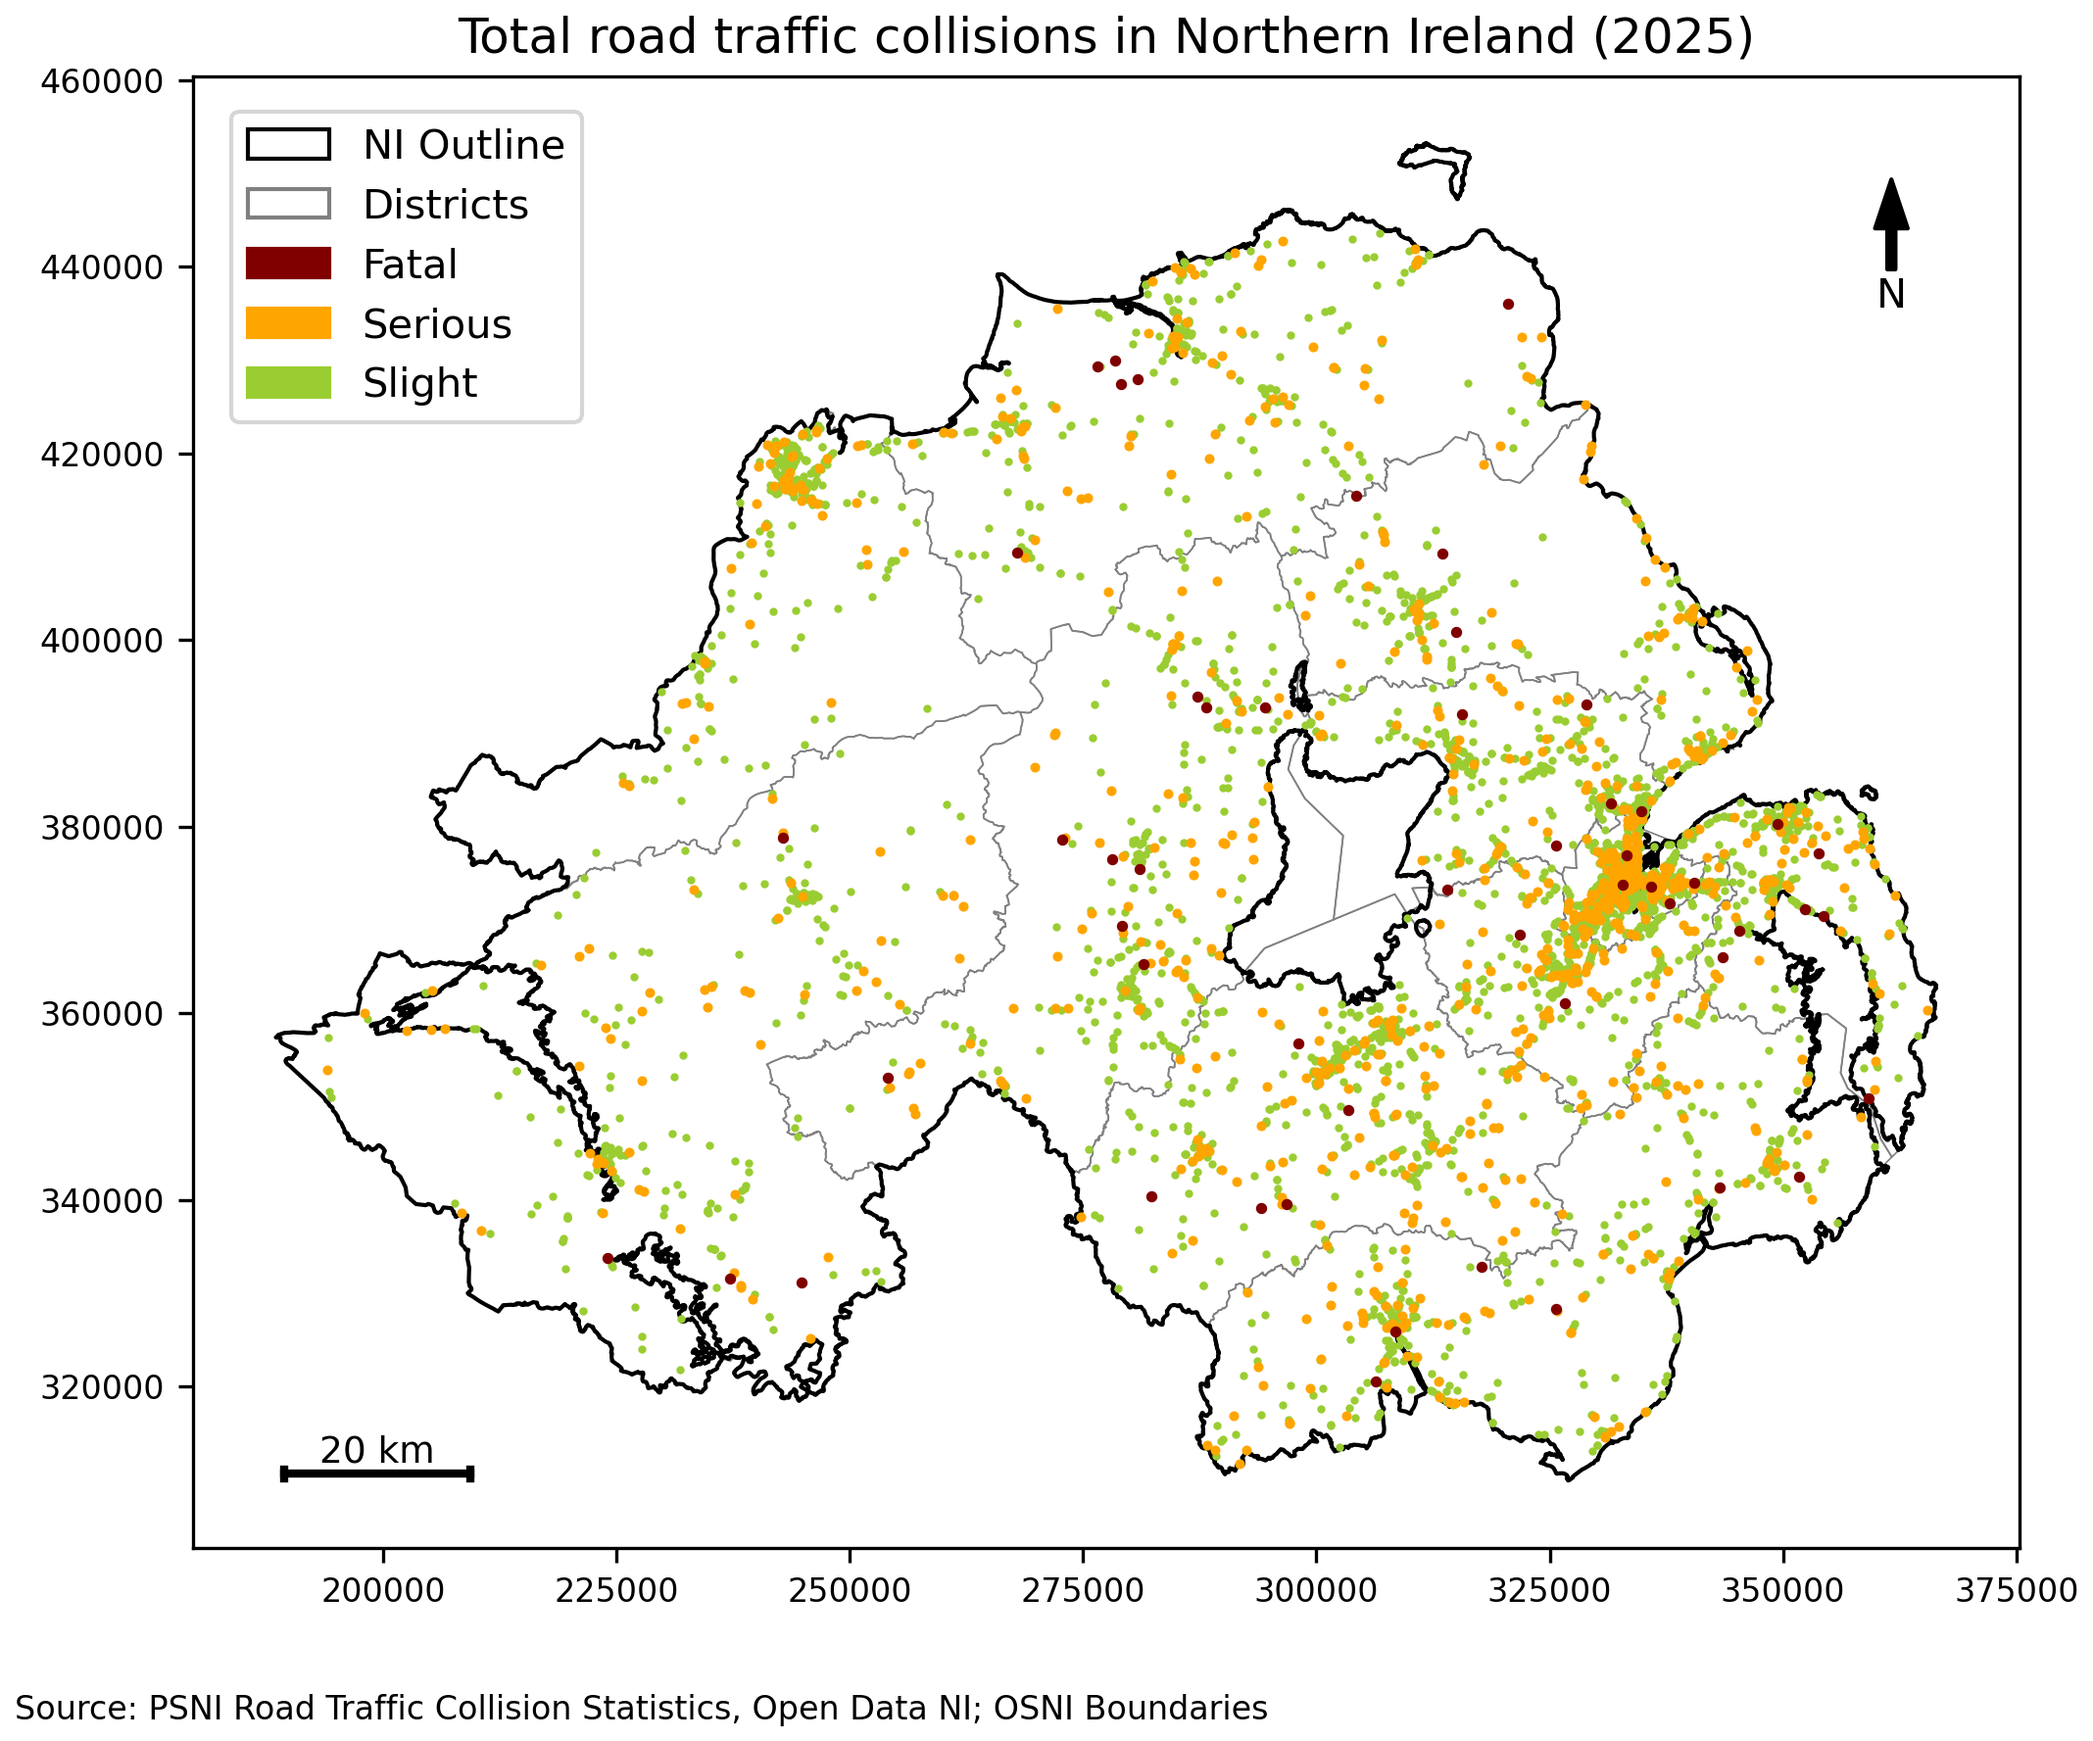
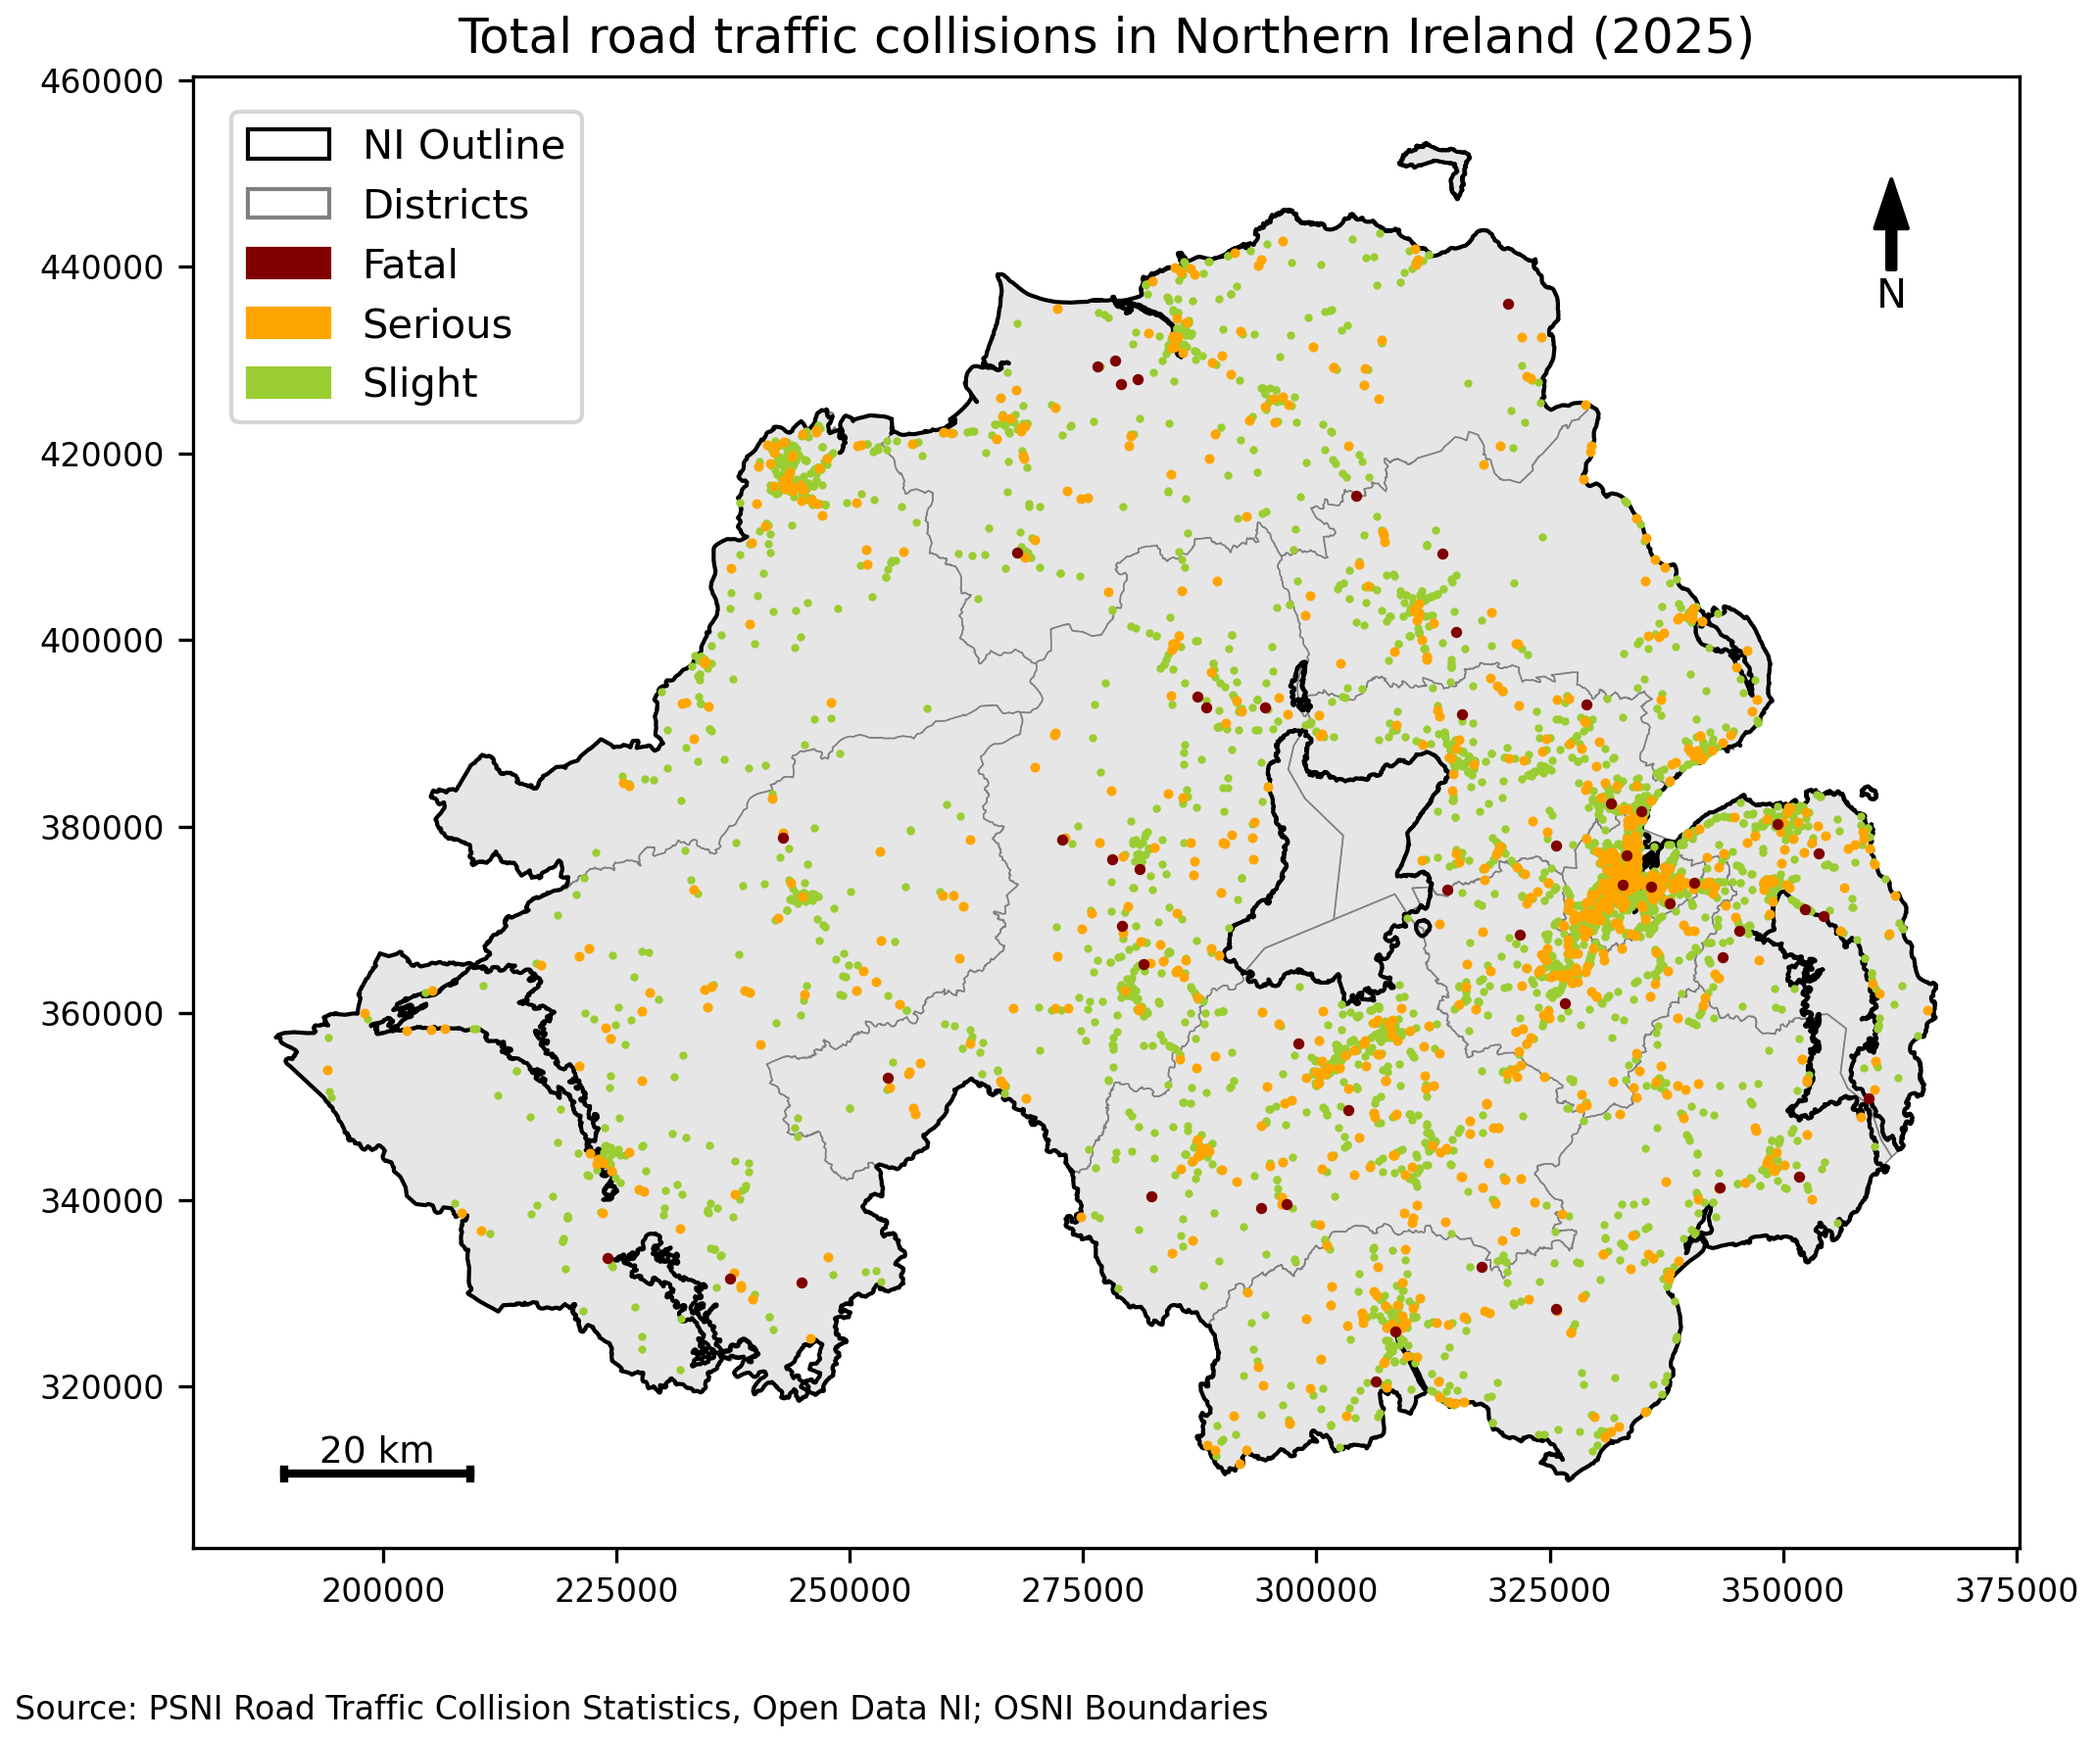
Feature Update: added new hotspot maps and optimised environment setup.
improving hotspot maps - changing older drivers map to generic - 65+ and 17-24 and changing readme file, easy for comparison - same colour, adding facecolour to point and hotspot maps, updated the environment file rather than changing local installation, so future users get the correct setup when creating the environment

Changed region(s): [[0.1236, 0.1238, 0.927, 0.8666], [0.6798, 0.0619, 0.7107, 0.0929]]

diff --git a/ni_collision_analysis.py b/ni_collision_analysis.py
@@ -291,65 +291,62 @@ def create_bar_chart(series, output_dir, year,
 
     print(f"{year} GRAPH {title} created")
 
-def create_ni_older_driver_hotspot(joined_vehicles, districts, output_dir, year):
+def create_driver_agegroup_hotspot(joined_vehicles, districts, outline, output_dir, year,
+                                   agegroup_code, agegroup_label, output_name):
     """
-    Create a hotspot-style map for older drivers aged 65+ in Northern Ireland.
+    Create a hotspot-style map for collisions involving a selected driver age group.
 
-    The PSNI data uses age groups, so age group 8 represents drivers aged 65+.
+    Parameters:
+    - joined_vehicles: vehicle points joined to district boundaries
+    - districts: GeoDataFrame of district boundaries
+    - outline: GeoDataFrame of Northern Ireland outline
+    - output_dir: folder where the map will be saved
+    - year: selected year for analysis
+    - agegroup_code: driver age group code
+    - agegroup_label: label used in the map title
+    - output_name: name used for the output file
+
+    Returns:
+    - saves a PNG hotspot map in the outputs folder
     """
 
-    # Filter all NI older drivers (65+)
-    ni_older = joined_vehicles[
-        joined_vehicles["v_agegroup"] == 8
+    driver_group = joined_vehicles[
+        joined_vehicles["v_agegroup"] == agegroup_code
     ]
 
     fig, ax = plt.subplots(figsize=(9, 6.5))
 
-    # Plot all district boundaries
-    districts.plot(
-        ax=ax,
-        facecolor="none",
-        edgecolor="grey",
-        linewidth=0.4
-    )
+    districts.plot(ax=ax, facecolor="#e6e6e6", edgecolor="grey", linewidth=0.4)
+    outline.boundary.plot(ax=ax, color="black", linewidth=1)
 
-    # Plot NI outline
-    outline.boundary.plot(
-        ax=ax,
-        color="black",
-        linewidth=1
-    )
-
-    # Create hotspot using hexbin density
-    if not ni_older.empty:
-        x = ni_older.geometry.x
-        y = ni_older.geometry.y
+    if not driver_group.empty:
+        x = driver_group.geometry.x
+        y = driver_group.geometry.y
 
         hb = ax.hexbin(
             x,
             y,
             gridsize=45,
-            cmap="Greens",
-            mincnt=1,
-            linewidths=0.2
+            cmap="YlOrRd",
+            mincnt=1
         )
 
-        plt.colorbar(hb, ax=ax, label="Older driver collision density")
+        plt.colorbar(hb, ax=ax, label="Collision density")
 
-    ax.set_title(f"Northern Ireland Older Driver Collision Hotspot 65+ ({year})")
+    ax.set_title(f"{agegroup_label} Driver Collision Hotspot ({year})")
     ax.tick_params(axis="both", labelsize=8)
 
     add_map_elements(ax)
 
     plt.tight_layout()
     plt.savefig(
-        output_dir / f"{year}_MAP_ni_older_driver_hotspot.png",
+        output_dir / f"{year}_MAP_{output_name}.png",
         dpi=300,
         bbox_inches="tight"
     )
     plt.close()
 
-    print(f"{year} MAP NI older driver hotspot created")
+    print(f"{year} MAP {output_name} created")
 
 # Load shapefiles - NI outline, NI districts
 outline = gpd.read_file(DATA_DIR/"ni_outline.shp")
@@ -374,7 +371,7 @@ districts = districts.to_crs(epsg=29901)
 
 # Plot NI outline and districts boundaries
 fig, ax = plt.subplots(figsize=(9, 6.5))
-districts.plot(ax=ax, facecolor="none", edgecolor="grey", linewidth=0.4)
+districts.plot(ax=ax, facecolor="#e6e6e6", edgecolor="grey", linewidth=0.4)
 outline.plot(ax=ax, facecolor="none", edgecolor="black", linewidth=1)
 
 
@@ -486,12 +483,28 @@ vehicles_gdf = gpd.GeoDataFrame(
 # Spatially join vehicle points to district boundaries
 joined_vehicles = gpd.sjoin(vehicles_gdf, districts, how="inner", predicate="within")
 
-# NI older driver hotspot map (65+)
-create_ni_older_driver_hotspot(
+# Create hotspot map for young drivers (17-24)
+create_driver_agegroup_hotspot(
     joined_vehicles,
     districts,
+    outline,
     OUTPUT_DIR,
-    YEAR
+    YEAR,
+    agegroup_code=3,
+    agegroup_label="Young 17-24",
+    output_name="young_driver_17_24_hotspot"
+)
+
+# Create hotspot map for older drivers (65+)
+create_driver_agegroup_hotspot(
+    joined_vehicles,
+    districts,
+    outline,
+    OUTPUT_DIR,
+    YEAR,
+    agegroup_code=8,
+    agegroup_label="Older 65+",
+    output_name="older_driver_65_plus_hotspot"
 )
 
 # Create grouped series for vehicle graph
@@ -644,7 +657,7 @@ create_choropleth_map(
 print(f"{YEAR} MAP serious_to_slight_ratio_choropleth created")
 
 # Use this to see text for docstring
-# change the name of the function
-# print(add_map_elements.__doc__)
+# change the name of the function (and remove #)
+# print(create_driver_agegroup_hotspot.__doc__)
 
 # End of script

diff --git a/README.md b/README.md
@@ -7,13 +7,16 @@ This project analyses police-recorded injury road traffic collisions in Northern
 The script:
 - loads collision, casualty and vehicle CSV files
 - creates spatial point data from collision coordinates
-- loads Northern Ireland outline and district shapefiles
-- joins data to district boundaries
-- creates maps, graphs and summary tables
+- loads Northern Ireland outline and district boundary shapefiles
+- spatially joins collision data to district boundaries
+- creates maps, charts and summary tables
 - saves outputs as CSV and PNG files
 
 The script can be used for any available year from **2013** to **2025**.
 
+With the relevant collision data saved in the **data** folder, 
+simply change the year at the top of the script and all results 
+will be automatically saved for that selected year in the **outputs** folder.
 
 ## Data Download
 
@@ -66,8 +69,8 @@ A conda environment is used to guarantee that all required dependencies are inst
 conda env create -f environment.yml
 conda activate ni-collisions
 ```
-## Run the Script in PyCharm
-1. Open PyCharm
+## Run the Script in IDE (PyCharm, VS Code, Spyder, etc.)
+1. Open PyCharm or another Python IDE
 2. Select **Open Project** and choose the project folder:
     - `ni-traffic-collision-analysis`
 3. Make sure the correct interpreter is selected:
@@ -88,7 +91,7 @@ YEAR = 2025
 Process finished with exit code 0
 ```
 
-## Outputs for year 2025
+## Example Outputs (2025)
 
 Results are saved in the **outputs** folder as PNG charts/maps and CSV summary tables.
 
@@ -110,7 +113,7 @@ Results are saved in the **outputs** folder as PNG charts/maps and CSV summary t
 | Fermanagh and Omagh | 283 | 447 | 513 |
 | **TOTAL** | **5015** | **7879** | **9394** |
 
-### Collisions Locations
+### Collision Locations
 ![Collision Locations](outputs/2025_MAP_collisions.png)
 
 ### Casualties by District
@@ -153,8 +156,11 @@ Results are saved in the **outputs** folder as PNG charts/maps and CSV summary t
 ### Serious to Slight Ratio by District
 ![Serious to Slight Ratio by District](outputs/2025_MAP_serious_to_slight_ratio_choropleth.png)
 
+### Young Driver Collision Hotspot (17–24)
+![Young Driver Collision Hotspot](outputs/2025_MAP_young_driver_17_24_hotspot.png)
+
 ### Older Driver Collision Hotspot (65+)
-![Older Driver Collision Hotspot](outputs/2025_MAP_ni_older_driver_hotspot.png)
+![Older Driver Collision Hotspot](outputs/2025_MAP_older_driver_65_plus_hotspot.png)
 
 ## Notes
 
@@ -167,3 +173,4 @@ Results are saved in the **outputs** folder as PNG charts/maps and CSV summary t
 ## Author
 
 Martin Cervenka, Ulster University
+Created for the Programming for GIS and Remote Sensing module
